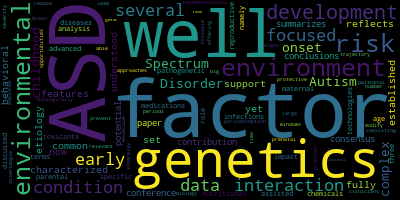
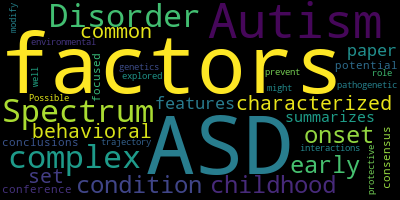
ajout des sortis

diff --git a/text_summerization_orchestre.py b/text_summerization_orchestre.py
@@ -4,12 +4,11 @@ from summerize_text_using_bert import summerize_text_using_bert, summerize_text_
 from summerize_text_using_nltk import generate_summary
 from summerize_text_using_spacy_light import summerize_text_spacy_light
 
-
 def run_algorithms(text):
-    print("SUMMARY BERT: ")
-    summary_bert = summerize_text_using_bert_heavy(text)
-    print(summary_bert)
-    print("\n")
+    # print("SUMMARY BERT: ")
+    # summary_bert = summerize_text_using_bert_heavy(text)
+    # print(summary_bert)
+    # print("\n")
     print("NLTK: ")
     summary_nltk = generate_summary(text, 30, 3)
     print(summary_nltk)
@@ -17,8 +16,10 @@ def run_algorithms(text):
     print("SpaCy: ")
     summary_spacy = "\n".join([i.text for i in summerize_text_spacy_light(text)])
     print(summary_spacy)
-    algorithms_results = [["Nltk", summary_nltk], ["SpaCy", summary_spacy], ["summary_bert", summary_bert]]
-    export_text_as_pdf(algorithms_results)
+    return summary_nltk, summary_spacy
+
+    #algorithms_results = [["Nltk", summary_nltk], ["SpaCy", summary_spacy], ["summary_bert", summary_bert]]
+    #export_text_as_pdf(algorithms_results)
 
 
 if __name__ == '__main__':
@@ -26,4 +27,4 @@ if __name__ == '__main__':
     with open(file, 'r') as f:
         text = f.read()
     print("\n")
-    run_algorithms(text)
+    summary_nltk, summary_spacy = run_algorithms(text)

diff --git a/sortis_orchestre.py b/sortis_orchestre.py
@@ -1,0 +1,16 @@
+from read_files import read_text_file
+from sortie_pdf import run_pdf
+from sortie_wordcloud import run_wordcloud
+from text_summerization_orchestre import run_algorithms
+
+
+def sortis_orchestre(text):
+    #run_pdf(text)
+    run_wordcloud(text)
+
+
+if __name__ == '__main__':
+    file = input("Entrez le chemin de votre fichier: ")
+    text = read_text_file(file)
+    summary_nltk, summary_spacy = run_algorithms(text)
+    sortis_orchestre(summary_nltk)

diff --git a/sortie_wordcloud.py b/sortie_wordcloud.py
@@ -1,0 +1,21 @@
+import matplotlib.pyplot as plt
+from wordcloud import WordCloud
+
+from read_files import read_text_file
+
+def run_wordcloud(text):
+    wc = WordCloud()
+    wc.generate(text)
+
+    wc.to_file('output.png')
+    plt.imshow(wc, interpolation='bilinear')
+    plt.axis('off')
+    plt.show()
+
+
+
+if __name__ == '__main__':
+    file = input("Entrez le chemin de votre fichier: ")
+    text = read_text_file(file)
+    run_wordcloud(text)
+

diff --git a/sortie_pdf.py b/sortie_pdf.py
@@ -1,0 +1,5 @@
+from export_text_as_pdf import export_text_as_pdf
+
+
+def run_pdf(algorithms_results):
+    export_text_as_pdf(algorithms_results)

diff --git a/read_files.py b/read_files.py
@@ -1,0 +1,4 @@
+def read_text_file(path):
+    with open(path, encoding='utf-8') as f:
+        txt = ''.join(f.readline())
+    return txt
